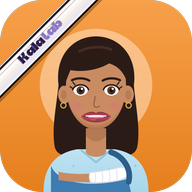
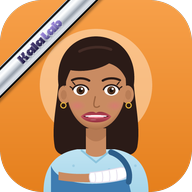
Kali : traits de la trompe arrondis en haut, sans défenses ; ruban chromé avec KalaLab imprimé dans le métal
Claude-Session: https://claude.ai/code/session_01Nm7TbsHk1BWsYhRA67Mq1a

Changed region(s): [[0.0, 0.0, 0.5312, 0.5]]

diff --git a/sw.js b/sw.js
@@ -1,4 +1,4 @@
-const CACHE = "kalalab-5";
+const CACHE = "kalalab-6";
 const FILES = ["./", "js/icons.js", "js/kali.js", "js/activity.js", "anglais/lessons.js", "fonts/cikutra-black.otf", "fonts/cikutra-bold.otf", "fonts/bagel-fat-one.woff2", "fonts/pixelify-sans-400.woff2", "fonts/pixelify-sans-600.woff2", "fonts/pixelify-sans-700.woff2", "fonts/lexend-400.woff2", "fonts/lexend-600.woff2", "fonts/lexend-700.woff2", "mia.html", "manifest.webmanifest", "mia.webmanifest", "icons/mia-app-192.png", "icons/mia-app-512.png", "icons/mia-app-maskable-512.png", "icons/mia-app-apple-touch.png", "icons/kalalab-192.png", "icons/kalalab-512.png", "icons/kalalab-maskable-512.png", "icons/kalalab-apple-touch.png", "icons/apple-touch-icon.png", "icons/icon-192.png", "icons/icon-512.png", "icons/maskable-512.png", "audio/015661c9541b.mp3", "audio/0196d5fe8d1d.mp3", "audio/02b181526234.mp3", "audio/02c988ea4e95.mp3", "audio/02d11ecb8a9d.mp3", "audio/0aa4db5f2cfe.mp3", "audio/0d1abe43d495.mp3", "audio/0e6535b4b79c.mp3", "audio/0eaad103aca6.mp3", "audio/0ff2932d1dba.mp3", "audio/103466a0973d.mp3", "audio/12b275cda366.mp3", "audio/1596db8cc773.mp3", "audio/1627b67dfaee.mp3", "audio/18fb1361a370.mp3", "audio/1e0da6412269.mp3", "audio/1ec30bfdfe8e.mp3", "audio/1fe36aca9cd2.mp3", "audio/21cb9d0b231a.mp3", "audio/22bfe8a59f8b.mp3", "audio/23a2c049a88c.mp3", "audio/241f18fb3222.mp3", "audio/2504e1c380ad.mp3", "audio/2625a9b74263.mp3", "audio/27fea9a7b824.mp3", "audio/2acc2710e2dd.mp3", "audio/302ec85edc65.mp3", "audio/304e14510d78.mp3", "audio/31e8cc3358c9.mp3", "audio/3b8e6a9b52a6.mp3", "audio/3c26fe7451c2.mp3", "audio/3c84d6dd4845.mp3", "audio/3e88a2f6b2f8.mp3", "audio/3ee08297b153.mp3", "audio/3f893633ad08.mp3", "audio/40ec7cbda7a9.mp3", "audio/421949be6ec6.mp3", "audio/43cfeb420824.mp3", "audio/4553109e2d4e.mp3", "audio/45b686733408.mp3", "audio/47ef54f6d8aa.mp3", "audio/4805f17b2fa3.mp3", "audio/4a61ff4c3016.mp3", "audio/4b5891b3234d.mp3", "audio/4bcaea645d3f.mp3", "audio/518efafb76a4.mp3", "audio/52e37432d14f.mp3", "audio/533b90f52f51.mp3", "audio/5469937b6d34.mp3", "audio/552aecc32490.mp3", "audio/55dacb9ed833.mp3", "audio/5a3fbad65b86.mp3", "audio/5bbae0c15456.mp3", "audio/5fdb1398a051.mp3", "audio/618cfde82af0.mp3", "audio/619708dc3bae.mp3", "audio/66a58cdc8d9e.mp3", "audio/692535a5159c.mp3", "audio/6b04d4e6cf92.mp3", "audio/6ed2320b969b.mp3", "audio/6f31e1e884b5.mp3", "audio/7075cfdc0dbb.mp3", "audio/722f552d3d30.mp3", "audio/73428cc57f7b.mp3", "audio/74609048d3b2.mp3", "audio/75b62e3f660c.mp3", "audio/7745ada9c737.mp3", "audio/77c42d80bb35.mp3", "audio/788ab0713f35.mp3", "audio/78ed3755e31f.mp3", "audio/7b1d54c2c491.mp3", "audio/7d718543e5a1.mp3", "audio/7dc1fc4a0d39.mp3", "audio/7fa6cda04fe0.mp3", "audio/81eb6f3eb64e.mp3", "audio/87a867572ac9.mp3", "audio/8b8b1e6b7504.mp3", "audio/8dd37ec1cbea.mp3", "audio/8e6b7ebf35b7.mp3", "audio/900db8413b08.mp3", "audio/924187de6ccf.mp3", "audio/92c98516d6ca.mp3", "audio/9387284f5971.mp3", "audio/96088c12ba4f.mp3", "audio/98687beda626.mp3", "audio/99290fabc182.mp3", "audio/9a465b56b8c9.mp3", "audio/9d5f7606cf34.mp3", "audio/9e15d86ec3d3.mp3", "audio/a201acc4cd87.mp3", "audio/a332c49bd9d8.mp3", "audio/a342630af823.mp3", "audio/a353e2c1ccdc.mp3", "audio/a4a21d3e2815.mp3", "audio/a533e121a1ff.mp3", "audio/a55dc94fc3c1.mp3", "audio/a583986cccde.mp3", "audio/a958c34e6ea1.mp3", "audio/a9765309148e.mp3", "audio/aba40032668b.mp3", "audio/acbdea6ec304.mp3", "audio/acc09b80296a.mp3", "audio/ae62ad22fda5.mp3", "audio/b065e2b55560.mp3", "audio/b20aea95414d.mp3", "audio/b49c98d64978.mp3", "audio/b522dbac7e61.mp3", "audio/b53e0ffafa2c.mp3", "audio/b86f7b0d03d0.mp3", "audio/b9d3a98118f7.mp3", "audio/bafc549bafc0.mp3", "audio/bbe623c0d3c7.mp3", "audio/be3e12518a1a.mp3", "audio/c100ac6d35da.mp3", "audio/c30cf0215ea4.mp3", "audio/c4da53ae700a.mp3", "audio/c64d72f6f07e.mp3", "audio/c77057dbf22f.mp3", "audio/c8237127f08a.mp3", "audio/ca825b34d79f.mp3", "audio/cb5f4b50b290.mp3", "audio/ccffab1a0d4c.mp3", "audio/ce0e488b2fa3.mp3", "audio/d08016bf8235.mp3", "audio/d08876dee591.mp3", "audio/d30b021c9a97.mp3", "audio/d5c9cb3fbe71.mp3", "audio/d73d30d83e9b.mp3", "audio/d9c3cbcc50bd.mp3", "audio/dadab812860d.mp3", "audio/dc167dc7a942.mp3", "audio/de79cec48b8b.mp3", "audio/e0ebb6e38dad.mp3", "audio/e1693f3735a9.mp3", "audio/e19482ad32bc.mp3", "audio/e6e804a6444e.mp3", "audio/e86219839be4.mp3", "audio/e87d4413af2d.mp3", "audio/ea59d6737e1a.mp3", "audio/ee3243976f48.mp3", "audio/ef2a2411f512.mp3", "audio/ef8cab0cc76a.mp3", "audio/efcb319e5014.mp3", "audio/f327f075d1c8.mp3", "audio/f4dc24a7ea4c.mp3", "audio/f932065d8693.mp3", "audio/f996442d16b2.mp3", "audio/fa9371ff033c.mp3", "audio/fbc915819c5b.mp3", "audio/fd9159b1a18b.mp3", "audio/fe1c072ddeaf.mp3", "videos/covers/replique1.jpg", "videos/covers/replique2.jpg", "videos/covers/replique3.jpg", "videos/covers/replique4.jpg", "videos/covers/replique5.jpg", "videos/covers/replique6.jpg", "videos/covers/replique7.jpg", "videos/covers/son01-mini.jpg", "videos/covers/son01.jpg", "videos/covers/son02-mini.jpg", "videos/covers/son02.jpg", "videos/covers/son03-mini.jpg", "videos/covers/son03.jpg", "videos/covers/son04-mini.jpg", "videos/covers/son04.jpg", "videos/covers/son05-mini.jpg", "videos/covers/son05.jpg", "videos/covers/son06-mini.jpg", "videos/covers/son06.jpg", "videos/covers/son07-mini.jpg", "videos/covers/son07.jpg", "videos/covers/son08-mini.jpg", "videos/covers/son08.jpg", "videos/covers/son09-mini.jpg", "videos/covers/son09.jpg", "videos/covers/son10-mini.jpg", "videos/covers/son10.jpg"];
 self.addEventListener("install", (e) => {
   e.waitUntil(caches.open(CACHE).then((c) => c.addAll(FILES)).then(() => self.skipWaiting()));

diff --git a/design/kali.js b/design/kali.js
@@ -2,7 +2,6 @@
 // each with its own animation (CSS classes .o-<outfit> on the <svg>, see KALI_CSS).
 const KALI_INK = "#141414";
 const KALI = { body: "#c9b8f0", inner: "#f7c9d9", light: "#fbeee0", bow: "#7b68c4", cheek: "#ff9fb8", butter: "#ffd27a", blue: "#a9c2f5", mint: "#a9e0c8", peach: "#f7b9a0", rose: "#f5a3bd" };
-let KALI_TUSKS = true;   // small cute tusks
 const KALI_OUTFITS = ["bonjour", "dj", "lecture", "diplomee", "sport", "dodo", "detective", "fete"];
 
 function kali(outfit = "bonjour", label = "Kali, l'éléphante de KalaLab") {
@@ -88,12 +87,10 @@ function kali(outfit = "bonjour", label = "Kali, l'éléphante de KalaLab") {
       ${head}
     </g>
     ${arms}
-    <g class="head">${KALI_TUSKS ? `<g class="tusks"><path d="M91 111 C88 116, 83 120, 78.5 119.5 C81 124.5, 88 124, 92.5 118.5 Z" fill="#fffaf0" stroke="${I}" stroke-width="3" stroke-linejoin="round"/>
-      <path d="M109 111 C112 116, 117 120, 121.5 119.5 C119 124.5, 112 124, 107.5 118.5 Z" fill="#fffaf0" stroke="${I}" stroke-width="3" stroke-linejoin="round"/></g>` : ""}<g class="trunk">
-      <!-- open at the top, so it grows out of the face; its two sides curve softly into the cheeks; only the tip is rounded -->
-      <path d="M100 105 C100 126, 104 140, 120 138 C132 136, 138 124, 132 116" fill="none" stroke="${I}" stroke-width="20" stroke-linecap="butt"/><circle cx="132" cy="116" r="10" fill="${I}"/>
+    <g class="head"><g class="trunk">
+      <!-- open at the top, so it grows out of the face; the two lines end round at the top, the tip is rounded -->
+      <path d="M100 105 C100 126, 104 140, 120 138 C132 136, 138 124, 132 116" fill="none" stroke="${I}" stroke-width="20" stroke-linecap="butt"/><circle cx="132" cy="116" r="10" fill="${I}"/><circle cx="91.875" cy="105" r="1.875" fill="${I}"/><circle cx="108.125" cy="105" r="1.875" fill="${I}"/>
       <path d="M100 101 L100 105 C100 126, 104 140, 120 138 C132 136, 138 124, 132 116" fill="none" stroke="${C.body}" stroke-width="12.5" stroke-linecap="butt"/><circle cx="132" cy="116" r="6.25" fill="${C.body}"/>
-      <path d="M86.5 101.5 C89 102.5, 90.15 104.5, 90.15 109 M113.5 101.5 C111 102.5, 109.85 104.5, 109.85 109" fill="none" stroke="${I}" stroke-width="3.75" stroke-linecap="round"/>
       <path d="M104 122 h6 M107 131 h6" stroke="${I}" stroke-width="2.5" stroke-linecap="round" opacity=".5"/></g></g>
     ${front}
   </g>

diff --git a/js/kali.js b/js/kali.js
@@ -2,7 +2,6 @@
 // each with its own animation (CSS classes .o-<outfit> on the <svg>, see KALI_CSS).
 const KALI_INK = "#141414";
 const KALI = { body: "#c9b8f0", inner: "#f7c9d9", light: "#fbeee0", bow: "#7b68c4", cheek: "#ff9fb8", butter: "#ffd27a", blue: "#a9c2f5", mint: "#a9e0c8", peach: "#f7b9a0", rose: "#f5a3bd" };
-let KALI_TUSKS = true;   // small cute tusks
 const KALI_OUTFITS = ["bonjour", "dj", "lecture", "diplomee", "sport", "dodo", "detective", "fete"];
 
 function kali(outfit = "bonjour", label = "Kali, l'éléphante de KalaLab") {
@@ -88,12 +87,10 @@ function kali(outfit = "bonjour", label = "Kali, l'éléphante de KalaLab") {
       ${head}
     </g>
     ${arms}
-    <g class="head">${KALI_TUSKS ? `<g class="tusks"><path d="M91 111 C88 116, 83 120, 78.5 119.5 C81 124.5, 88 124, 92.5 118.5 Z" fill="#fffaf0" stroke="${I}" stroke-width="3" stroke-linejoin="round"/>
-      <path d="M109 111 C112 116, 117 120, 121.5 119.5 C119 124.5, 112 124, 107.5 118.5 Z" fill="#fffaf0" stroke="${I}" stroke-width="3" stroke-linejoin="round"/></g>` : ""}<g class="trunk">
-      <!-- open at the top, so it grows out of the face; its two sides curve softly into the cheeks; only the tip is rounded -->
-      <path d="M100 105 C100 126, 104 140, 120 138 C132 136, 138 124, 132 116" fill="none" stroke="${I}" stroke-width="20" stroke-linecap="butt"/><circle cx="132" cy="116" r="10" fill="${I}"/>
+    <g class="head"><g class="trunk">
+      <!-- open at the top, so it grows out of the face; the two lines end round at the top, the tip is rounded -->
+      <path d="M100 105 C100 126, 104 140, 120 138 C132 136, 138 124, 132 116" fill="none" stroke="${I}" stroke-width="20" stroke-linecap="butt"/><circle cx="132" cy="116" r="10" fill="${I}"/><circle cx="91.875" cy="105" r="1.875" fill="${I}"/><circle cx="108.125" cy="105" r="1.875" fill="${I}"/>
       <path d="M100 101 L100 105 C100 126, 104 140, 120 138 C132 136, 138 124, 132 116" fill="none" stroke="${C.body}" stroke-width="12.5" stroke-linecap="butt"/><circle cx="132" cy="116" r="6.25" fill="${C.body}"/>
-      <path d="M86.5 101.5 C89 102.5, 90.15 104.5, 90.15 109 M113.5 101.5 C111 102.5, 109.85 104.5, 109.85 109" fill="none" stroke="${I}" stroke-width="3.75" stroke-linecap="round"/>
       <path d="M104 122 h6 M107 131 h6" stroke="${I}" stroke-width="2.5" stroke-linecap="round" opacity=".5"/></g></g>
     ${front}
   </g>
